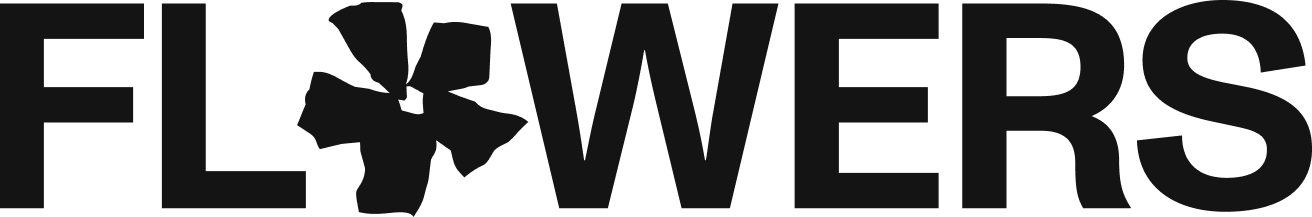
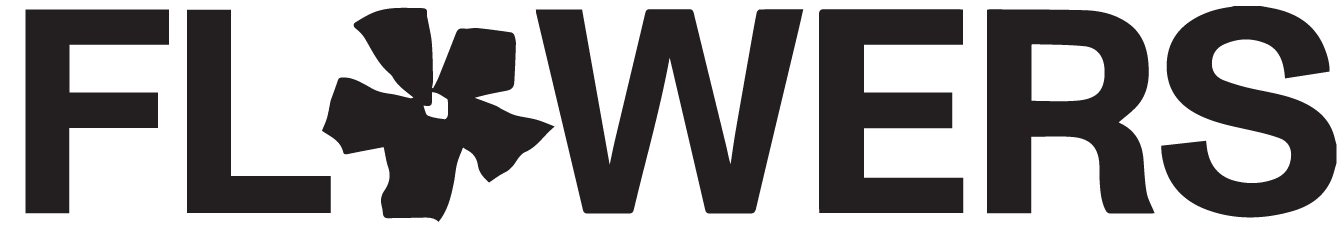
header

diff --git a/next/components/HomeLink.js b/next/components/HomeLink.js
@@ -3,13 +3,16 @@
 "use client";
 
 import Link from "next/link";
+import Image from "next/image";
 import { usePathname } from "next/navigation";
-import { WordMark, SecondaryMark } from "./Icons";
+import { SecondaryMark } from "./Icons";
 import { useMotionValueEvent, useScroll } from "framer-motion";
 import { useState, useEffect, useRef, useCallback } from "react";
 import { useAppState } from "../context";
 import classNames from "classnames";
 import { UpArrow } from "./Icons";
+
+const WORDMARK_ASPECT_RATIO = 1312 / 217;
 
 const HomeLink = () => {
   let targetSize = 170;
@@ -145,7 +148,12 @@ const HomeLink = () => {
               width: `${titleSize}px`,
             }}
           >
-            <WordMark />
+            <Image
+              src="/FLOWERS-Full.svg"
+              alt="FLOWERS"
+              width={titleSize}
+              height={Math.round(titleSize / WORDMARK_ASPECT_RATIO)}
+            />
           </Link>
         )}
 

diff --git a/.claude/implementation plans/replace-homelink-wordmark-with-image.md b/.claude/implementation plans/replace-homelink-wordmark-with-image.md
@@ -1,0 +1,123 @@
+# Replace HomeLink WordMark SVG with FLOWERS-Full.png
+
+## 1. Goal
+
+The site header ("home link") currently renders the FLOWERS wordmark as an inline SVG (`WordMark` component). This must be replaced with the raster image `next/public/FLOWERS-Full.png`, while preserving the existing scroll-driven resize behaviour of the header logo.
+
+## 2. Current System Behaviour
+
+`HomeLink.js` renders a `<nav id="home-link">` fixed to the top of the viewport, containing a `<Link href="/">` that wraps the `WordMark` component (an inline SVG with viewBox `0 0 800 145.9`, defined in `Icons.js`).
+
+Sizing is fully JS-driven:
+
+- `targetSize` is set to 170 on viewport widths ≥992px, otherwise 130 (computed once per render from `window.matchMedia`, not reactive to resize itself).
+- `container` (a ref on the wrapping `div`) is measured via `offsetWidth` in `handleResize`, which runs on mount, on window resize, and on pathname change.
+- `maxTitleSize` is set to the container's natural width; `titleSize` is initialised to that same natural width on load.
+- A `useMotionValueEvent` scroll listener recalculates `titleSize` on every scroll tick: once `scrollY` passes 400px (`scrollTriggerVal`), `titleSize` snaps to `targetSize` (170 or 130) and `showCaptions` becomes true; below that threshold, `titleSize` is interpolated between `maxTitleSize` and `targetSize` based on scroll progress, and `showCaptions` is false. This produces a shrinking logo as the user scrolls down.
+- The scroll handler also toggles Redux-style `state.hideHomeLink` / `state.hideNav` based on scroll direction, unrelated to sizing.
+- The `<Link>`'s inline `style` sets `width: ${titleSize}px`. The SVG itself has no explicit width/height attributes, so it fills that container width and scales height automatically via its viewBox aspect ratio (800:145.9 ≈ 5.48:1).
+- The whole `<Link>` only renders once `titleSize` is a non-falsy truthy value (`{titleSize && (...)}`), avoiding a flash of 0-width content before the first measurement.
+
+`Icons.js` also exports `SecondaryMark`, a separate SVG used elsewhere (not part of this change, not to be touched).
+
+## 3. Desired Behaviour
+
+The same header nav, same scroll-driven shrink/grow animation, same show/hide behaviour — but the visual mark is `FLOWERS-Full.png` (a raster PNG, natural size 1312×217px, aspect ratio ≈ 6.05:1) rendered via `next/image`, instead of the inline `WordMark` SVG. The image's width must continue to track `titleSize` exactly as the SVG's container width did today; its height must be derived from the image's own aspect ratio rather than hardcoded, so the logo does not distort as it resizes.
+
+`WordMark` in `Icons.js` remains in the codebase, unused, per explicit instruction not to remove it.
+
+## 4. Architecture Considerations
+
+- **Why `next/image` over a plain `<img>`:** the codebase already uses `next/image` in `MainNav.js` for the same kind of static public-folder logo asset, so this matches existing convention. `next/image` also handles responsive `srcSet`/optimization automatically.
+- **Sizing mechanism:** `next/image` requires either a `width`/`height` pair or `fill` (with a positioned parent). Because `titleSize` is a fluid, animated pixel value (not a fixed design-time constant), passing `width={titleSize}` and a derived `height` on every render is the most direct way to preserve current behaviour without restructuring the animation logic. `fill` mode would require converting the `<Link>` into a `position: relative` box with an explicit height, which is a bigger structural change than necessary for this swap.
+- **Deriving height from width:** the image's intrinsic aspect ratio (1312/217 ≈ 6.0461) is a constant. Height is computed each render as `titleSize / ASPECT_RATIO`, keeping the image undistorted at every size. This constant should live as a small named value near the top of `HomeLink.js` (or inline in the render), not in `Icons.js`, since it's specific to this one usage of the asset.
+- **No change to the `<Link>` wrapper's inline `style` width**, since that still governs the layout box; the `Image` itself takes matching `width`/`height` props so the rendered `<img>` matches the box exactly.
+- **`alt` text:** the SVG had no accessible text equivalent (it's decorative wordmark inside a link to "/"). The `Image` must carry `alt="FLOWERS"` so the logo remains accessible — this is a minimum accessibility bar for swapping vector text art for a raster image inside a link.
+- **No new dependencies.** `next/image` is already imported and used elsewhere in the codebase (`MainNav.js`).
+- **Blast radius:** only `HomeLink.js` changes. `Icons.js`, `MainNav.js`, `MobileNav.js`, and any footer/OG/favicon usage are unaffected and out of scope.
+
+## 5. Data Flow
+
+No data-layer changes. The flow is purely presentational/state-driven within `HomeLink.js`:
+
+1. On mount and on window resize, `handleResize` measures the container `div`'s `offsetWidth` and sets `maxTitleSize` / `titleSize` (React state, local to `HomeLink`).
+2. On pathname change, sizing is reset the same way.
+3. On every scroll tick, `titleSize` is recalculated (either snapped to `targetSize` past the threshold, or interpolated below it) and pushed into the same local state.
+4. `titleSize` (a number, pixels) flows into two places on render: the `<Link>`'s inline `style.width`, and — after this change — the `Image`'s `width` prop and the derived `height` prop.
+5. No props change on `HomeLink` itself; it remains a no-props component. No global state (`useAppState`) participates in sizing, only in the unrelated hide/show nav behaviour.
+
+## 6. Component Responsibilities
+
+### `HomeLink.js` (existing, modified)
+
+**Responsible for:**
+- Measuring available width and animating `titleSize` on scroll/resize/pathname change (unchanged).
+- Rendering the home logo/link at the current `titleSize`, now via `next/image` instead of inline SVG.
+- Deriving the image's `height` from `titleSize` using the asset's fixed aspect ratio.
+- Toggling caption visibility and nav hide/show state on scroll (unchanged).
+
+**Not responsible for:**
+- Defining the visual artwork itself (that's the PNG asset in `public/`, not JS).
+- Any layout/behaviour of `MainNav.js` or `MobileNav.js`.
+
+**Props:** none (unchanged — `HomeLink` takes no props).
+
+**Internal state (unchanged):** `maxTitleSize`, `titleSize`, `prevScroll`, `showCaptions`, plus the `container` ref.
+
+### `Icons.js` (unchanged)
+
+**Responsible for:** exporting `WordMark` (now unused, left in place) and `SecondaryMark` (still used elsewhere).
+
+**Not responsible for:** anything related to the new PNG asset.
+
+## 7. Files Affected
+
+- `next/components/HomeLink.js` — remove the `WordMark` import and usage; import `next/image`; render `<Image src="/FLOWERS-Full.png">` sized from `titleSize` and the asset's aspect ratio.
+
+No other files change. `next/public/FLOWERS-Full.png` already exists and requires no modification.
+
+## 8. Step-by-Step Implementation
+
+**Step 1 — Update imports in `HomeLink.js`.**
+Remove `WordMark` from the `import { WordMark, SecondaryMark } from "./Icons";` line (keep `SecondaryMark` — it's out of scope and must not be removed even if unused within this file). Add `import Image from "next/image";` near the other imports (`Link`, `usePathname`, etc.).
+*Gotcha:* only drop the `WordMark` named import, not the whole import statement.
+
+**Step 2 — Define the aspect ratio constant.**
+Near the top of the component (alongside `targetSize`/`scrollTriggerVal`-style constants), add a constant for the wordmark's intrinsic aspect ratio, computed from the asset's real pixel dimensions (1312×217 ⇒ ratio ≈ 6.0461). This is a plain numeric constant, not a prop or piece of state, since it's fixed for as long as this specific PNG is used.
+
+**Step 3 — Replace the `<WordMark />` render with `<Image>`.**
+Inside the existing `{titleSize && (<Link href="/" ...>...)}` block, replace the `<WordMark />` child with an `<Image>`:
+- `src="/FLOWERS-Full.png"`
+- `alt="FLOWERS"`
+- `width={titleSize}` (same numeric value already driving the `Link`'s inline style width)
+- `height={Math.round(titleSize / ASPECT_RATIO)}`
+*Gotcha:* `next/image` requires valid positive numeric `width`/`height` — since `titleSize` is only rendered when truthy (existing `{titleSize && (...)}` guard), this is already safe, but confirm the derived height also can't be `0` or `NaN` under that same guard.
+*Gotcha:* the `<Link>`'s own inline `style={{ width: titleSize + "px" }}` box and the `Image`'s `width` prop must stay numerically identical (same `titleSize` variable) so the image isn't cropped or stretched by its parent.
+
+**Step 4 — Verify the `Link`'s `className="flex justify-center"` still centers the image correctly.**
+Since `Image` renders a real `<img>` inside that flex container, confirm no extra wrapping element breaks the centering — this is a visual check, not a code change, unless the rendered markup needs an extra wrapper class.
+
+**Step 5 — Confirm no `next.config.js` image-domain change is needed.**
+Since the asset is served from `public/` (a local static path), no `images.domains`/`remotePatterns` config should be needed (same as `MainNav.js`'s existing local `/FLOWERS.png` usage) — verify the asset loads without a Next.js image-optimization error in dev.
+
+## 9. Edge Cases
+
+- **`titleSize` is `0` or falsy during initial render:** already guarded by `{titleSize && (...)}` — the whole `Link`/`Image` doesn't render until a real width is measured, so no invalid `width`/`height` is ever passed to `Image`.
+- **Non-integer `height`:** `titleSize / ASPECT_RATIO` will usually be a float; round it before passing to `Image`'s `height` prop to avoid subpixel/console-warning issues.
+- **Very small `titleSize` (e.g. the 130px `targetSize` on narrow viewports):** the wordmark's wide aspect ratio (~6:1) means the image gets quite short at small widths (~21px tall at 130px wide) — visually check legibility isn't degraded compared to the old SVG at the same width.
+- **Rapid resize/scroll changing `titleSize` every frame:** `next/image` recalculating `width`/`height` on every render should be inexpensive since it's just an `<img>` with attributes, not re-fetching the asset — but confirm no layout thrash/flicker appears during the scroll animation in manual testing.
+
+## 10. Test Considerations
+
+**Manual checks (no existing automated test suite covers this component, based on repository structure):**
+- Load the home page at ≥992px width: logo should render at its natural/full container width initially, matching the old SVG's footprint.
+- Load at <992px width: confirm `targetSize` of 130 still applies correctly once scrolled.
+- Scroll past 400px: confirm the logo shrinks smoothly to the `targetSize` value and captions/up-arrow behaviour (on `/projects` and `/gallery` routes) is unaffected.
+- Scroll back up: confirm the logo grows back and `showCaptions` toggles off correctly.
+- Resize the window while on the page: confirm `handleResize` still re-measures correctly with the new `Image` in place.
+- Navigate between routes (e.g. home → `/projects/[slug]` → home): confirm the pathname-triggered resize still works.
+- Visually confirm the image isn't stretched, cropped, or blurry at both the largest and smallest rendered sizes.
+
+## 11. Implementation Order
+
+1. `next/components/HomeLink.js` (existing file, modified) — the only file that needs to change: swap the `WordMark` import/usage for a `next/image` `Image` pointing at `/FLOWERS-Full.png`, sized from `titleSize` and the asset's aspect ratio, per Steps 1–3 above. Manual verification (Steps 4–5 and Section 10) follows immediately after in the browser, since no build step is required for a `public/` asset that already exists.
